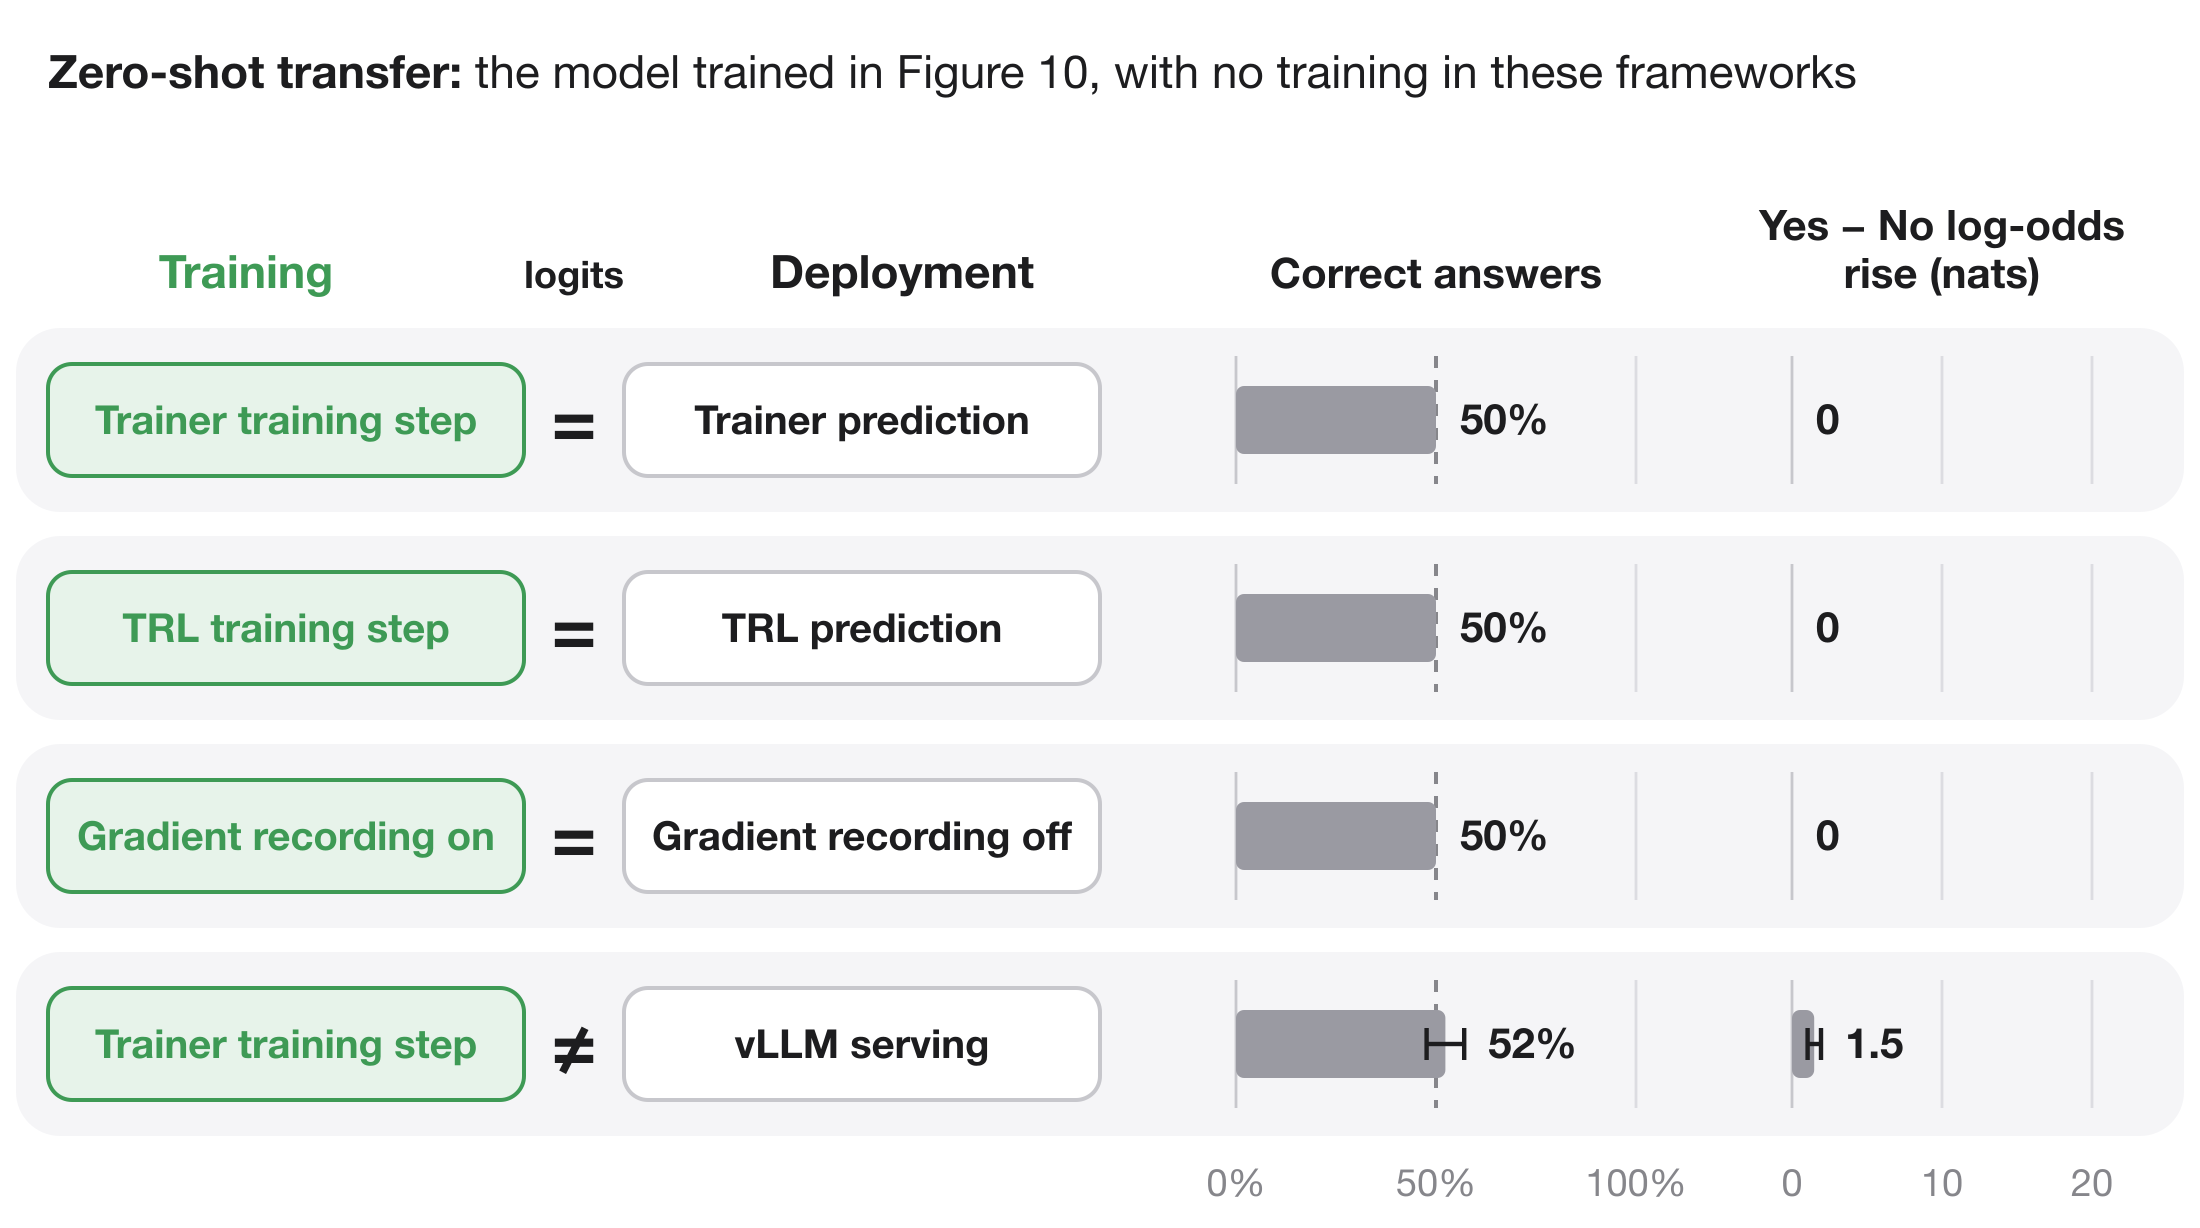
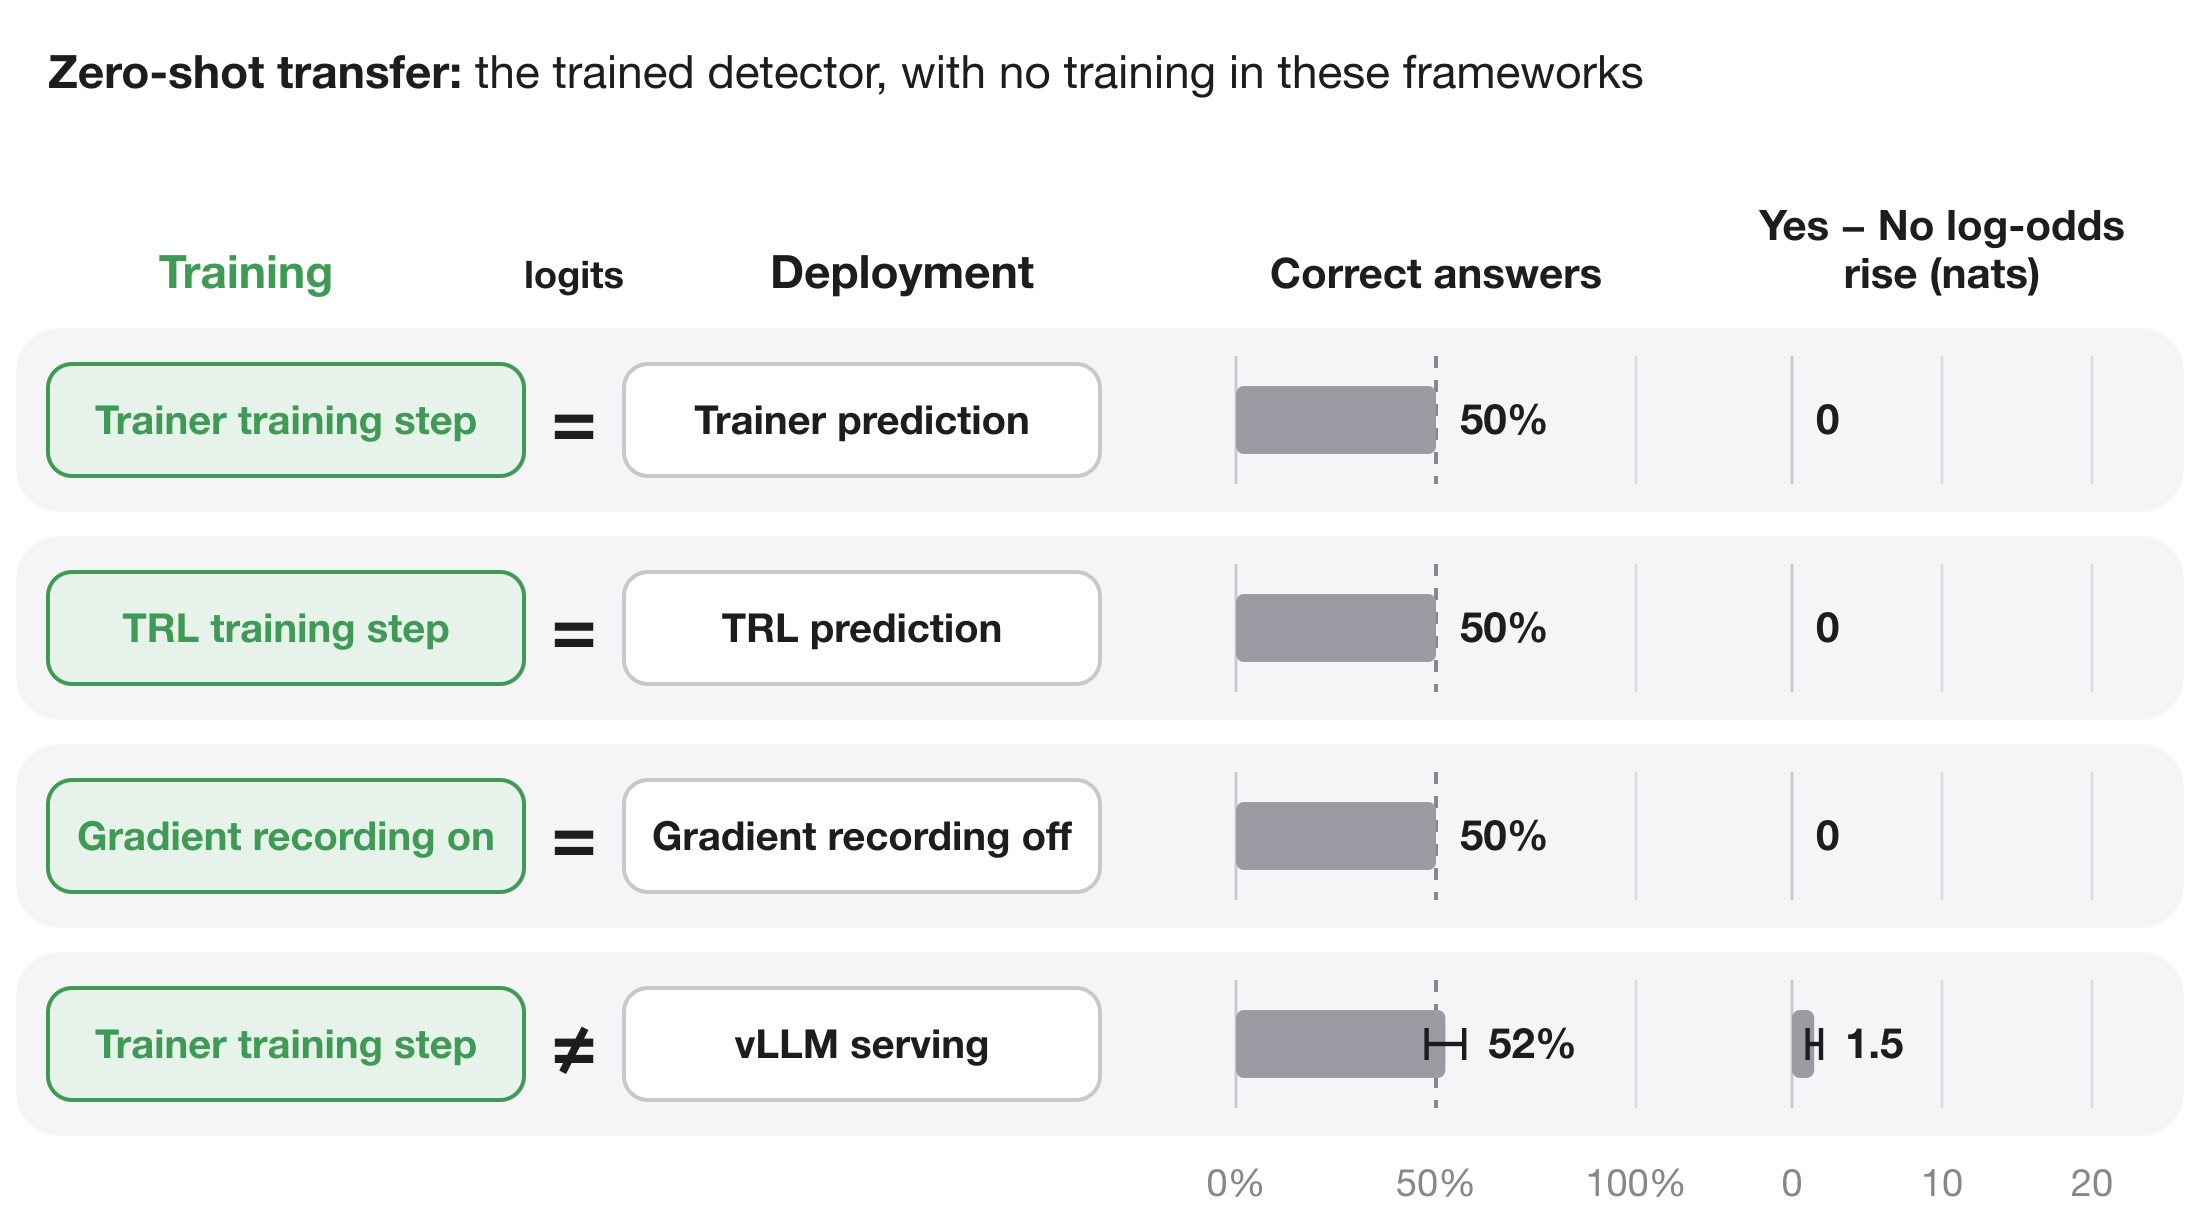
Figures stand alone: no figure numbers inside the zero-shot transfer figure
Claude-Session: https://claude.ai/code/session_01Q61t3czsfmTtfatqKzmn18

Changed region(s): [[0.2473, 0.0309, 0.8345, 0.0928]]

diff --git a/scripts/make_diagrams.py b/scripts/make_diagrams.py
@@ -892,7 +892,7 @@ def mechanism(out, tiles):
 
 ORANGE = "#E08A2E"
 STEEL = "#5B84B8"
-# One name and colour per way of handling the activation (Figure 5).
+# One name and colour per way of handling the activation (methods figure).
 METHODS = {
     "reference": ("Probe", RED, "watched", "split"),
     "identity": ("No probe, two kernels", ORANGE, "unwatched", "split"),
@@ -1075,6 +1075,109 @@ def methods(out, tiles):
             else:
                 parts.append(text(ex + 10, ey + 7, fmt(values[-1]), 21, True, color))
     render(document(w, int(plot_bottom + 82), "\n".join(parts)), out, "methods")
+
+
+PURPLE = "#7B5EA7"
+TEAL = "#2A8C82"
+# Training against standard capture APIs (run 061r), with the probe for reference.
+CAPTURE_RUNS = {
+    "hook": ("PyTorch hook on `q_norm`", PURPLE, "library-capture-training-061r-hook/out"),
+    "hidden": (
+        "Hugging Face `output_hidden_states`",
+        TEAL,
+        "library-capture-training-061r-hidden/out",
+    ),
+}
+
+
+def capture_training(out, sources=None):
+    """Training Qwen3-8B against standard capture APIs, beside the probe."""
+    import make_paper_figures as charts
+
+    sources = sources or {key: (run,) for key, (*_, run) in CAPTURE_RUNS.items()}
+    sources["probe"] = dict(zip(METHODS, charts.VIEWING_RUNS, strict=True))["reference"][2]
+    curves = {}
+    for key, source in sources.items():
+        points = [p for p in charts.viewing_points(source) if p[0] <= 1024]
+        curves[key] = (
+            [p[0] for p in points],
+            [k / n for _, k, n, _, _ in points],
+            [charts.exact_interval(k, n) for _, k, n, _, _ in points],
+            [p[3] for p in points],
+            [p[4] for p in points],
+        )
+    names = {"probe": ("Probe", RED), **{k: v[:2] for k, v in CAPTURE_RUNS.items()}}
+    end = 1024
+    rise_top = 10 * math.ceil(max(hi for c in curves.values() for _, hi in c[4]) / 10)
+
+    w = 1160
+    parts = []
+    x = 24
+    for key in ("probe", "hook", "hidden"):
+        label, color = names[key]
+        parts.append(
+            f'<line x1="{x}" y1="34" x2="{x + 34}" y2="34" stroke="{color}" stroke-width="4" '
+            'stroke-linecap="round"/>'
+        )
+        parts.append(rich(x + 46, 41, label, 21, color=color))
+        x += 46 + width(label.replace("`", ""), 21, True) + 44
+    plot_top, plot_h = 150, 230
+    plot_bottom = plot_top + plot_h
+    for c, (title, ymax, ticks, fmt) in enumerate(
+        (
+            ("Both answers correct", 1.0, (0, 0.5, 1), lambda v: f"{v:.0%}"),
+            (
+                "Yes − No log-odds rise (nats)",
+                rise_top,
+                tuple(range(0, rise_top + 1, 10 if rise_top <= 40 else 30)),
+                "{:.0f}".format,
+            ),
+        )
+    ):
+        left = 104 + c * 572
+        span = 400
+        parts.append(text(left - 80, plot_top - 46, title, 21, True))
+
+        def at(s, v, left=left, ymax=ymax, span=span):
+            return left + span * s / end, plot_bottom - plot_h * v / ymax
+
+        for v in ticks:
+            _, gy = at(0, v)
+            parts.append(
+                f'<line x1="{left}" y1="{gy:.1f}" x2="{left + span}" y2="{gy:.1f}" '
+                f'stroke="{LINE if v == 0 else "#E5E5EA"}" stroke-width="1.4"/>'
+            )
+            parts.append(text(left - 12, gy + 7, fmt(v), 19, color=MUTED, anchor="end"))
+        for s in (0, end // 2, end):
+            parts.append(
+                text(at(s, 0)[0], plot_bottom + 30, f"{s:,}", 19, color=MUTED, anchor="middle")
+            )
+        parts.append(text(left + span / 2, plot_bottom + 60, "training steps", 19, anchor="middle"))
+        for key in ("hidden", "hook", "probe"):
+            color = names[key][1]
+            steps, *series = curves[key]
+            if not steps:
+                continue
+            values, interval = (series[0], series[1]) if c == 0 else (series[2], series[3])
+            outline = [at(s, hi) for s, (_, hi) in zip(steps, interval, strict=True)]
+            outline += [
+                at(s, lo) for s, (lo, _) in reversed(list(zip(steps, interval, strict=True)))
+            ]
+            parts.append(
+                f'<polygon points="{" ".join(f"{a:.1f},{b:.1f}" for a, b in outline)}" '
+                f'fill="{color}" fill-opacity="0.16"/>'
+            )
+            line = " ".join(
+                f"{a:.1f},{b:.1f}"
+                for a, b in (at(s, v) for s, v in zip(steps, values, strict=True))
+            )
+            parts.append(
+                f'<polyline points="{line}" fill="none" stroke="{color}" stroke-width="3.4" '
+                'stroke-linejoin="round" stroke-linecap="round"/>'
+            )
+            ex, ey = at(steps[-1], values[-1])
+            parts.append(text(ex + 10, ey + 7, fmt(values[-1]), 21, True, color))
+    render(document(w, int(plot_bottom + 82), "\n".join(parts)), out, "capture_training")
 
 
 def passes(x, y, w, recording):
@@ -1621,7 +1724,7 @@ def frameworks(out):
     parts = [f"<defs>{markers(INK)}</defs>"]
     parts.append(
         f'<text x="24" y="44" font-family="{FONT}" font-size="23" fill="{INK}">'
-        '<tspan font-weight="700">Zero-shot transfer:</tspan> the model trained in Figure 10, '
+        '<tspan font-weight="700">Zero-shot transfer:</tspan> the trained detector, '
         "with no training in these frameworks</text>"
     )
     parts.append(text(24 + chip_w / 2 - 20, 144, "Training", 23, True, GREEN, "middle"))

diff --git a/scripts/make_paper_figures.py b/scripts/make_paper_figures.py
@@ -1020,7 +1020,7 @@ def generalization(out):
     save(fig, out, "generalization")
 
 
-# Training runs per way of handling the activation, drawn in Figure 5 by make_diagrams.py.
+# Training runs per way of handling the activation, drawn by make_diagrams.methods().
 # Runs that continue an earlier run are listed after it and placed after its last step.
 VIEWING_RUNS = (
     ("Probe", RED, ("two-block-scaled-034",)),
